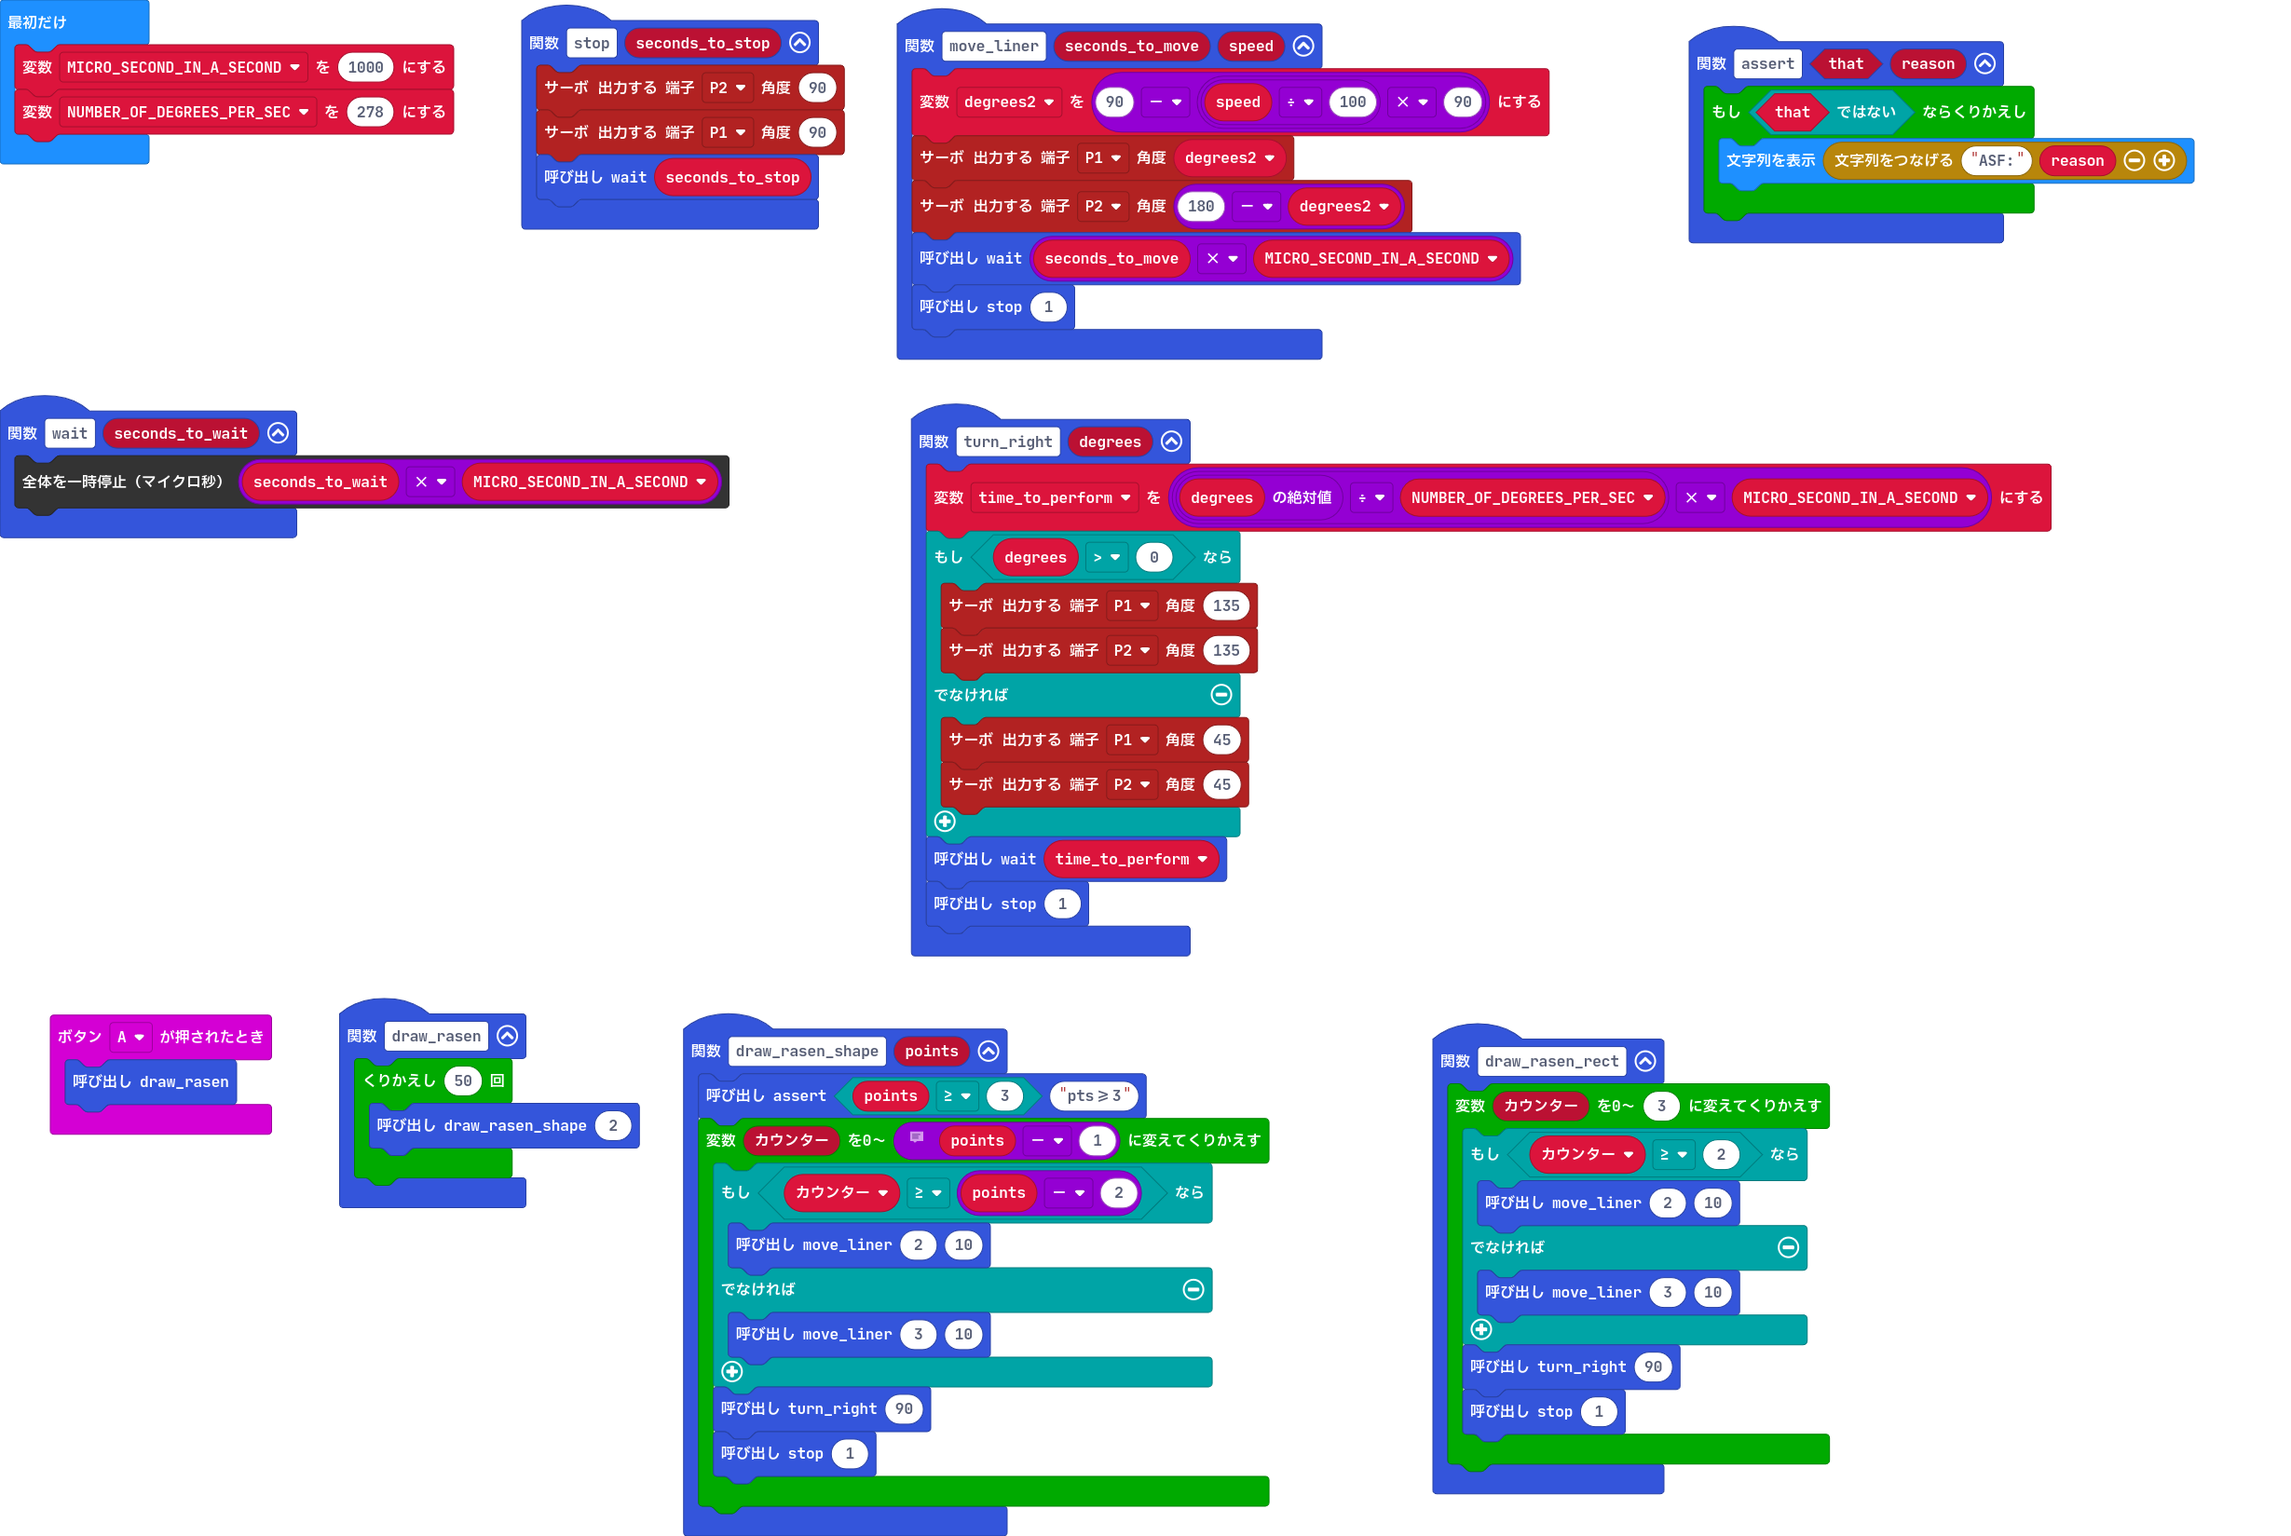
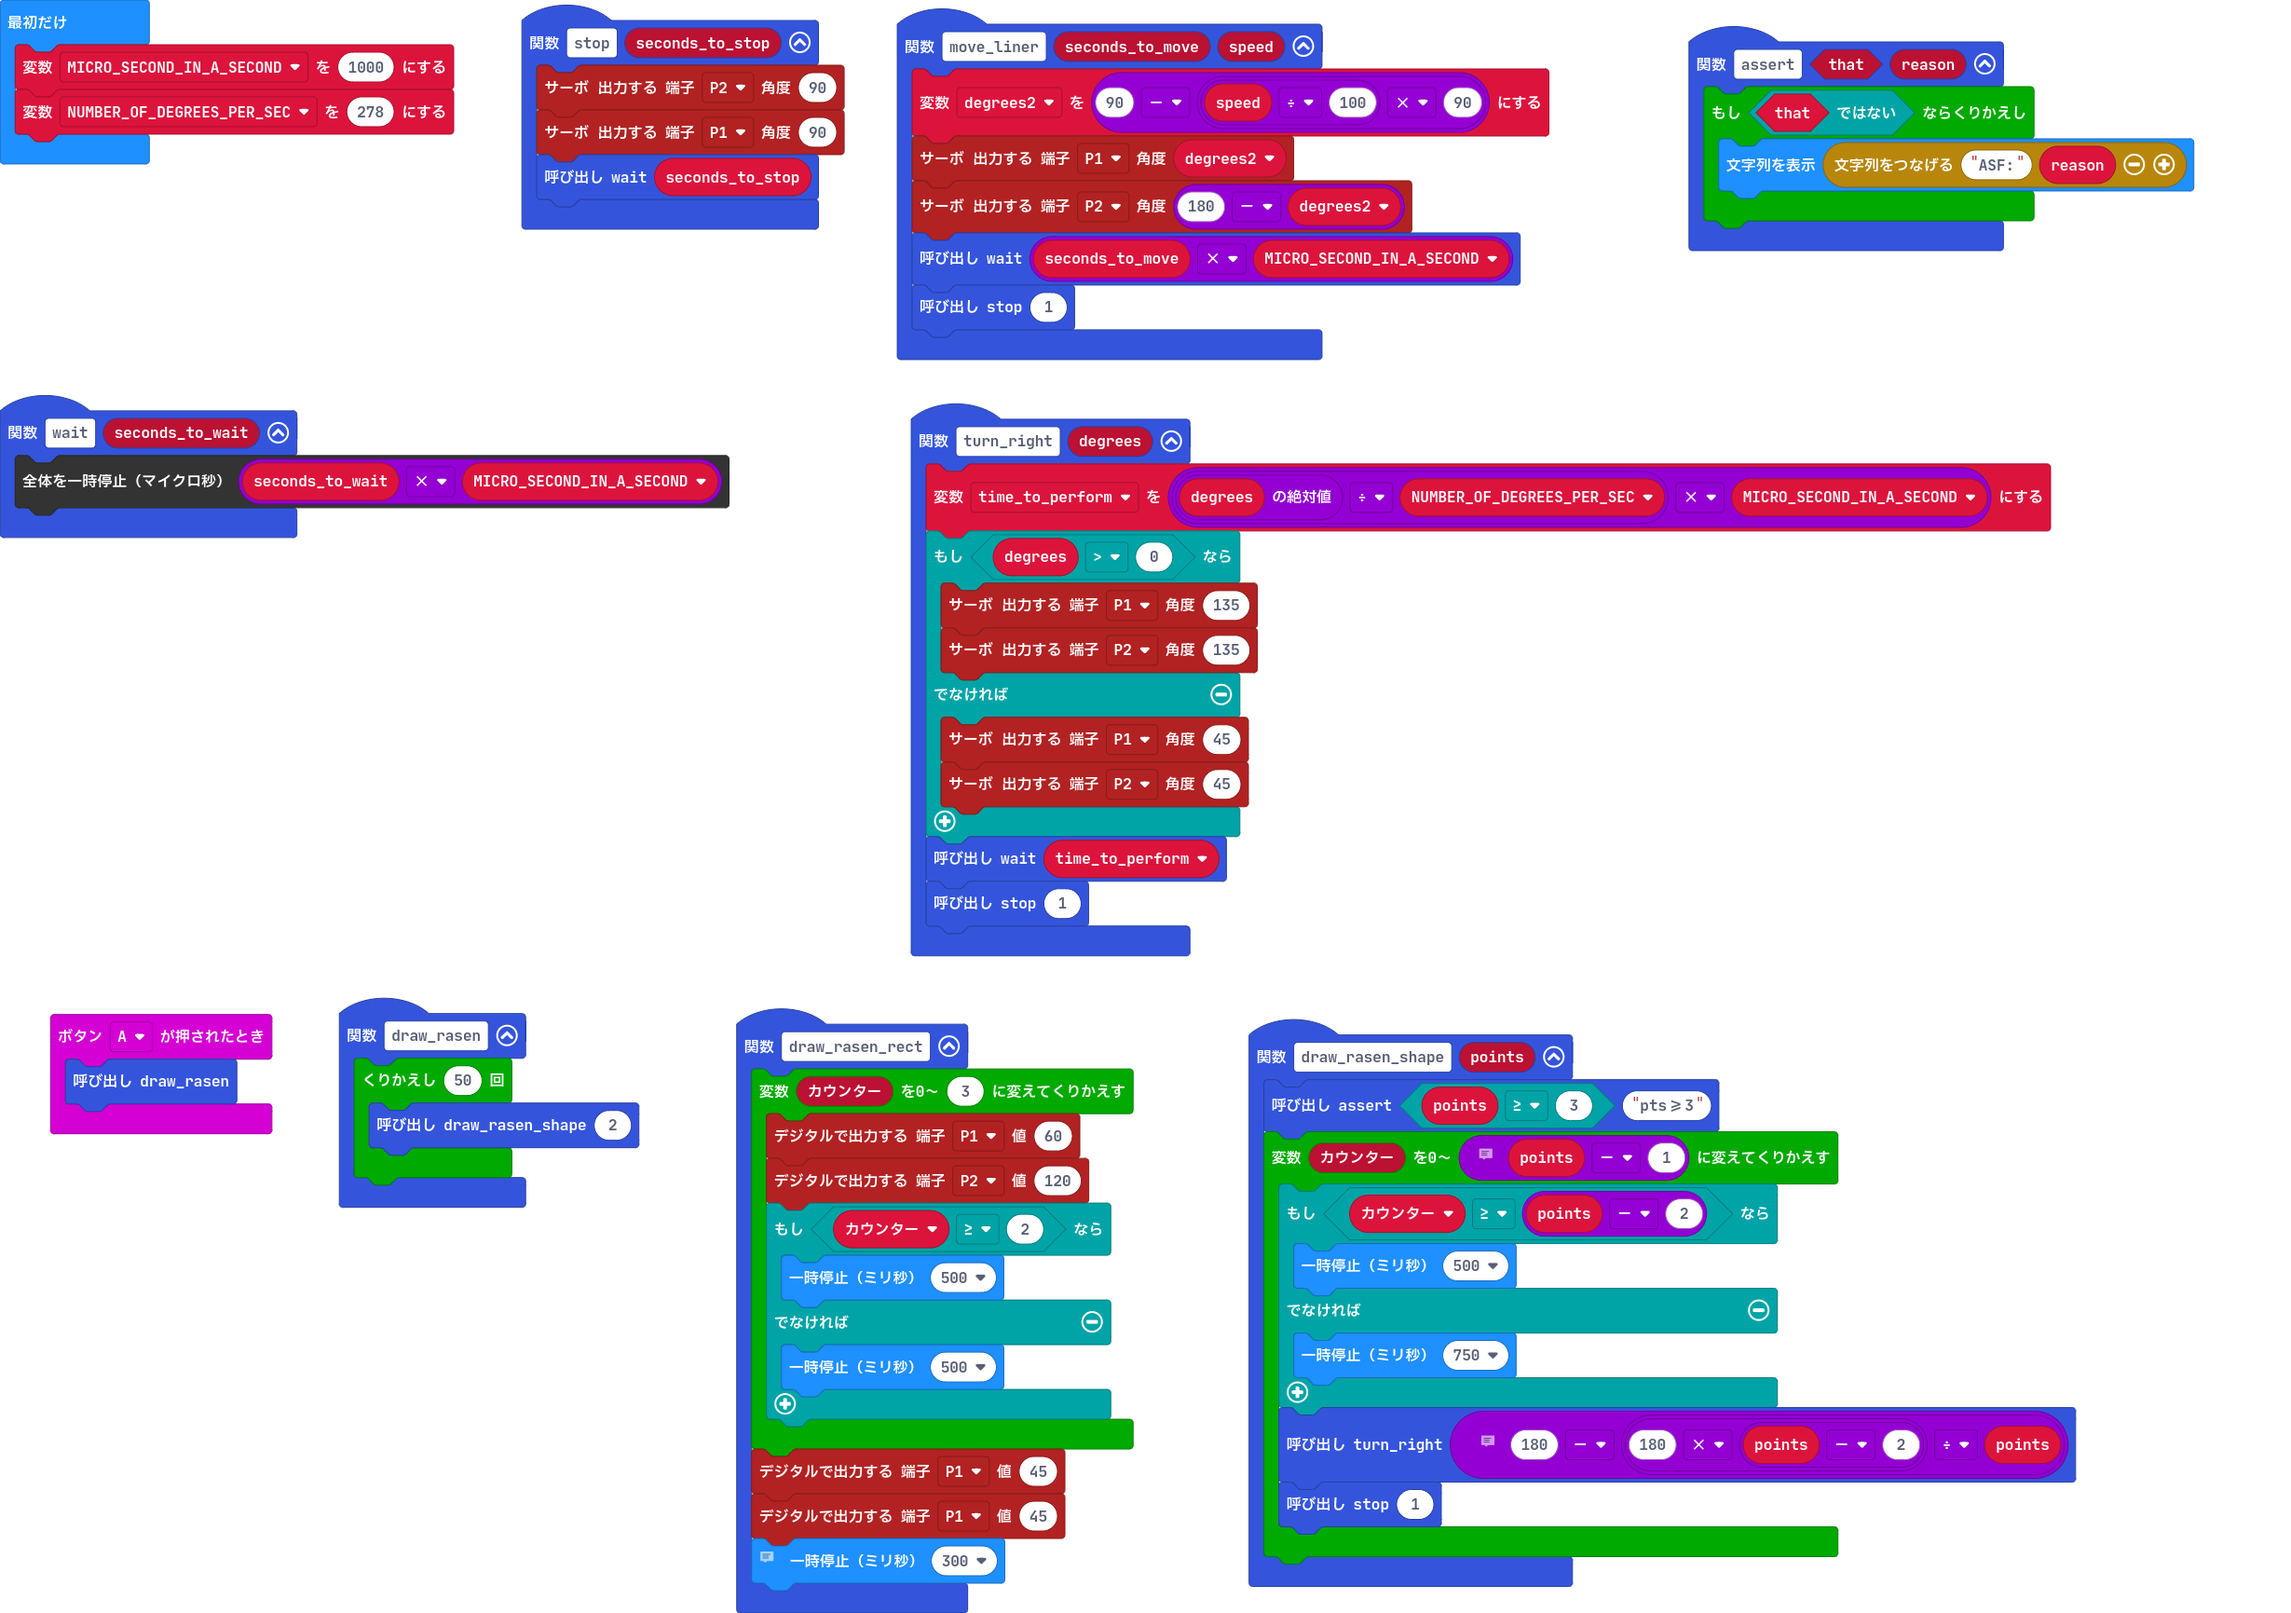
feat: 螺旋を実装

diff --git a/main.ts b/main.ts
@@ -20,14 +20,18 @@ function assert (that: boolean, reason: string) {
 }
 function draw_rasen_rect () {
     for (let カウンター = 0; カウンター <= 3; カウンター++) {
+        pins.digitalWritePin(DigitalPin.P1, 60)
+        pins.digitalWritePin(DigitalPin.P2, 120)
         if (カウンター >= 2) {
-            move_liner(2, 10)
+            basic.pause(500)
         } else {
-            move_liner(3, 10)
+            basic.pause(500)
         }
-        turn_right(90)
-        stop(1)
     }
+    pins.digitalWritePin(DigitalPin.P1, 45)
+    pins.digitalWritePin(DigitalPin.P1, 45)
+    // 実際は 323.74101.
+    basic.pause(300)
 }
 function wait (seconds_to_wait: number) {
     control.waitMicros(seconds_to_wait * MICRO_SECOND_IN_A_SECOND)
@@ -42,11 +46,12 @@ function draw_rasen_shape (points: number) {
     // カウンタの開始値が 0 以外にできないのが意外だった．
     for (let カウンター = 0; カウンター <= points - 1; カウンター++) {
         if (カウンター >= points - 2) {
-            move_liner(2, 10)
+            basic.pause(500)
         } else {
-            move_liner(3, 10)
+            basic.pause(750)
         }
-        turn_right(90)
+        // 180 - [ { 180 - ( p - 2 ) } / p ]
+        turn_right(180 - 180 * (points - 2) / points)
         stop(1)
     }
 }
